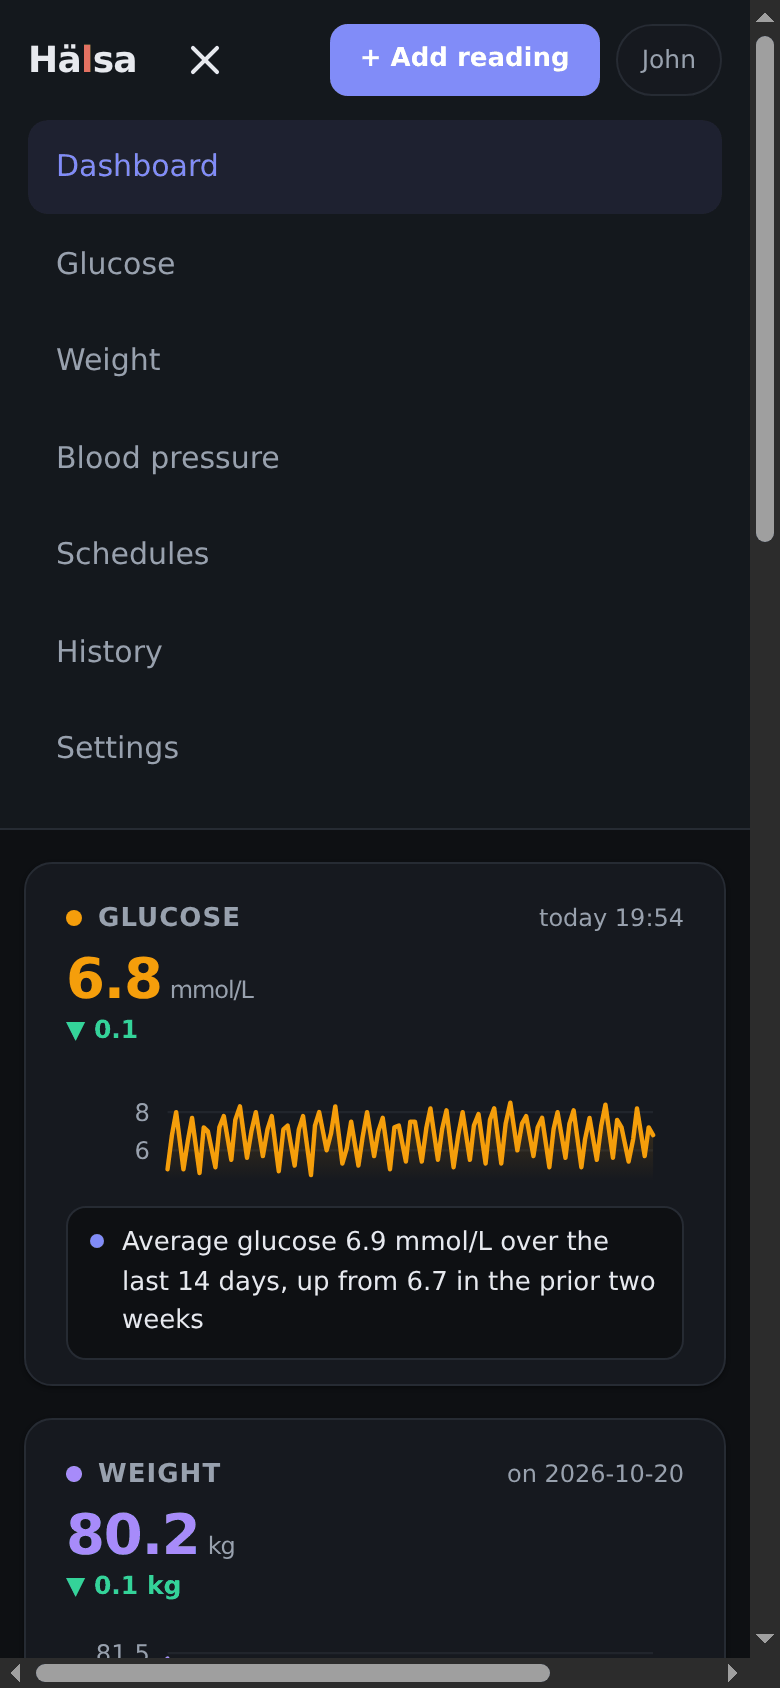
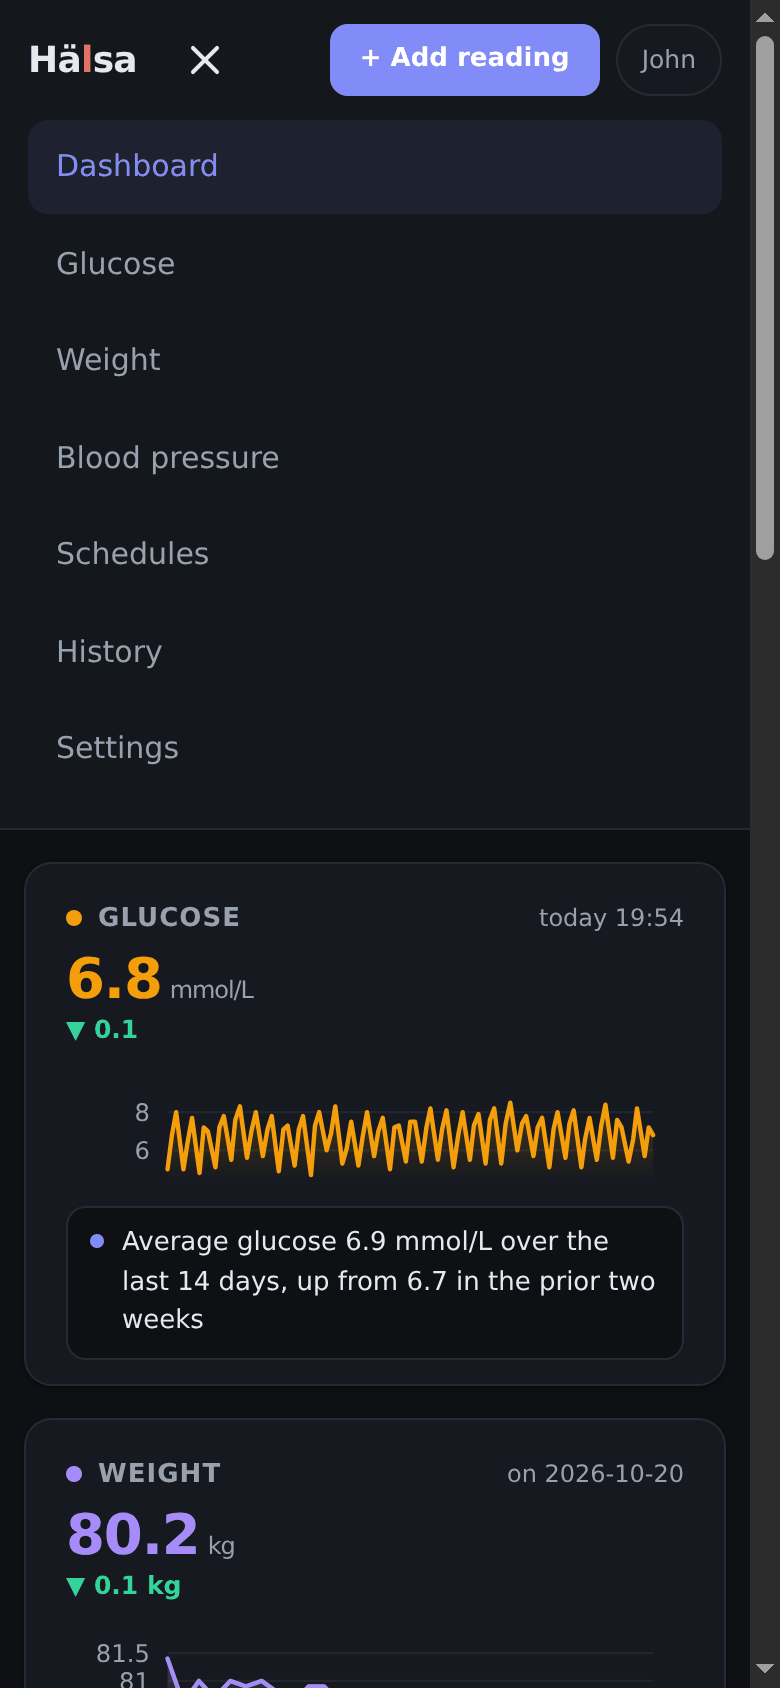
fix: kill horizontal scrollbars on mobile (issue #2 follow-up)
The readings/schedules/dashboard tables overflowed their panels below
700px and dragged a viewport-level horizontal scrollbar across every
page. All four templates now wrap table.table in .table-scroll (the
wrapper existed only on history), so tables scroll inside their panel
with a thin scrollbar instead of breaking the page. Verified: zero
overflowing containers at 390px and 820px on every page; README
mobile shots retaken without the bottom scrollbar.

Changed region(s): [[0.0, 0.955, 0.7077, 1.0], [0.9538, 0.3081, 1.0, 0.3389], [0.9231, 0.9858, 0.9846, 1.0]]

diff --git a/templates/dashboard.html b/templates/dashboard.html
@@ -61,6 +61,7 @@
     <a class="btn btn-ghost btn-sm" href="/history/">All history</a>
   </div>
   {% if recent %}
+  <div class="table-scroll">
   <table class="table">
     <tbody>
     {% for kind, dt, r in recent %}
@@ -82,6 +83,7 @@
     {% endfor %}
     </tbody>
   </table>
+  </div>
   {% else %}
   <p class="empty">Nothing logged yet. <a href="/add/">Add your first reading</a> to get started.</p>
   {% endif %}

diff --git a/templates/metric.html b/templates/metric.html
@@ -47,6 +47,7 @@
 <section class="panel">
   <h2 class="panel-title">Readings</h2>
   {% if rows %}
+  <div class="table-scroll">
   <table class="table">
     <tbody>
     {% for r in rows reversed %}
@@ -68,6 +69,7 @@
     {% endfor %}
     </tbody>
   </table>
+  </div>
   {% else %}
   <p class="empty">No readings in this range. <a href="/add/">Add one</a>.</p>
   {% endif %}

diff --git a/templates/schedules.html b/templates/schedules.html
@@ -8,6 +8,7 @@
 
 <section class="panel">
   {% if rows %}
+  <div class="table-scroll">
   <table class="table">
     <tbody>
     {% for row in rows %}
@@ -36,6 +37,7 @@
     {% endfor %}
     </tbody>
   </table>
+  </div>
   {% else %}
   <p class="empty">No schedules yet. Create one to get an email when a measurement is overdue.</p>
   {% endif %}

diff --git a/static/css/app.css b/static/css/app.css
@@ -313,7 +313,7 @@ input::placeholder { color: var(--muted); opacity: 0.7; }
 
 .nav-toggle { display: none; }
 .nav-burger { display: none; }
-.table-scroll { overflow-x: auto; }
+.table-scroll { overflow-x: auto; scrollbar-width: thin; }
 
 @media (max-width: 1024px) {
   .container { padding: 20px 16px 60px; }
